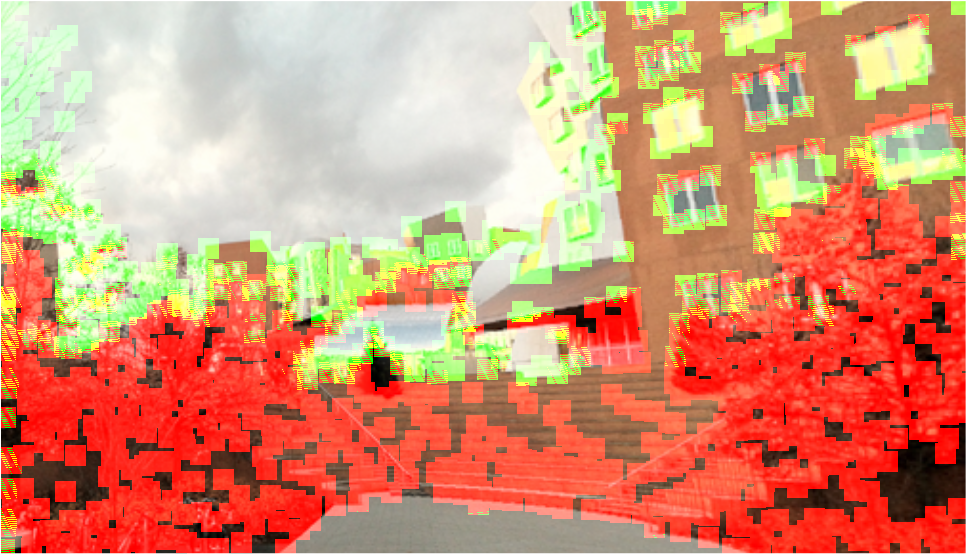
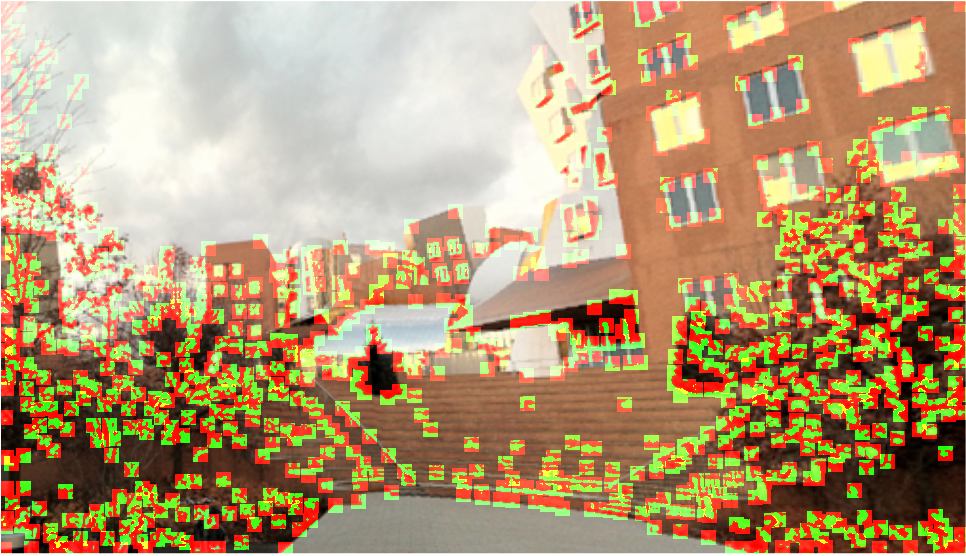
fixed patches

diff --git a/src/PanoImage.cpp b/src/PanoImage.cpp
@@ -59,9 +59,9 @@ void PanoImage::calculatePatches(float sigma, int size, bool blur, bool norm) {
     if(blur){
         image = gaussianBlur_seperable(image, sigma);
     }
-    if(norm){
-        image = normalizeBySD(image);
-    }
+
+
+    image.write(DATA_DIR "/output/testBlurPatch.png");
 
 
     for (int p = 0; p < m_featurePoints.size(); ++p) {
@@ -72,8 +72,19 @@ void PanoImage::calculatePatches(float sigma, int size, bool blur, bool norm) {
                                                                  m_featurePoints[p].y() + j, 0, true);
             }
         }
+
+        if(norm){
+            float sd = 0, mean = patch.mean();
+            for (int n = 0; n < patch.size(); ++n) {
+                sd += powf(patch(n) - mean, 2);
+            }
+            sd = sqrtf(sd / (patch.size() - 1));
+            for (int n = 0; n < patch.size(); ++n) {
+                patch(n) = (patch(n) - mean)/sd;
+            }
+        }
+
         m_patches.push_back(patch);
-        //std::cout << patch << std::endl << std::endl;
     }
 
 }
@@ -163,13 +174,14 @@ FloatImage PanoImage::vizPatches(){
     FloatImage output(m_image);
     int s = m_patchSize / 2;
     for (int p = 0; p < m_patches.size(); ++p) {
-        for (int j = -s; j <= s; ++j) {
-            for (int i = -s; i <= s; ++i) {
+        for (int i = -s; i <= s; ++i) {
+            for (int j = -s; j <= s; ++j) {
                 if(output.inBound(i + m_featurePoints[p].x(), j + m_featurePoints[p].y()))
-                    if(m_patches[p]((j+s) *s +i+s) > 0){
-                        output(i + m_featurePoints[p].x(), j + m_featurePoints[p].y(), 1) = 1.f;
+                    if(m_patches[p]((j+s) *m_patchSize +i+s) > 0){
+                            output(i + m_featurePoints[p].x(), j + m_featurePoints[p].y(), 1) = 1.f;
+
                     }else{
-                        output(i + m_featurePoints[p].x(), j + m_featurePoints[p].y(), 0) = 1.f;
+                            output(i + m_featurePoints[p].x(), j + m_featurePoints[p].y(), 0) = 1.f;
                     }
             }
         }

diff --git a/src/main.cpp b/src/main.cpp
@@ -24,7 +24,7 @@ void testCatTable(){
     pano.setMatchTh(0.7f);
     pano.setHarrisTh(0.2f);
     pano.setSigma(3.f);
-    pano.setNorm(false);
+    pano.setNorm(true);
     pano.setPortion(0.1f);
     PanoImage pim1(FloatImage(DATA_DIR "/input/table1.jpg"));
     PanoImage pim2(FloatImage(DATA_DIR "/input/table2.jpg"));
@@ -124,7 +124,7 @@ void testNHome(int start, int end){
     }
 
     FloatImage autocat = pano.autocatnimages(pims);
-    autocat.write(DATA_DIR "/output/auto_home_snow_lin.png");
+    autocat.write(DATA_DIR "/output/auto_home_lego_lin.png");
 
 }
 
@@ -156,9 +156,9 @@ void testWeightMap(){
 void testVizPatch(){
     PanoImage pim1(FloatImage(DATA_DIR "/input/building.png"));
 
-    FloatImage detected = pim1.harrisCornerDetector(9, 0.3);
-    detected.write(DATA_DIR "/output/testFeature.png");
-    pim1.calculatePatches(3.f, 21);
+    FloatImage detected = pim1.harrisCornerDetector(9, 0.6);
+    //detected.write(DATA_DIR "/output/testFeature.png");
+    pim1.calculatePatches(3.f, 15, false);
     FloatImage desp = pim1.vizPatches();
     desp.write(DATA_DIR "/output/testVizPatch.png");
 
@@ -190,7 +190,7 @@ int main(){
 
 
     //testCatYosemite();
-    //testCatNYosemite();
+//    testCatNYosemite();
     //testCatTable();
     //testCatNPan();
     //
@@ -199,7 +199,9 @@ int main(){
 
 //    testNHome(5180, 5186);
 //    testWeightMap();
-    testVizPatch();
+//    testVizPatch();
+//    testCatTable();
+    testNHome(5163, 5165);
 
     return 0;
 

diff --git a/include/PanoImage.hpp b/include/PanoImage.hpp
@@ -55,6 +55,7 @@ public:
     // feature descriptor
     void calculatePatches(float sigma = 2.f, int size = 9, bool blur = true, bool norm = true);
     FloatImage vizPatches();
+
     
     ~PanoImage(){
         m_patches.clear();
